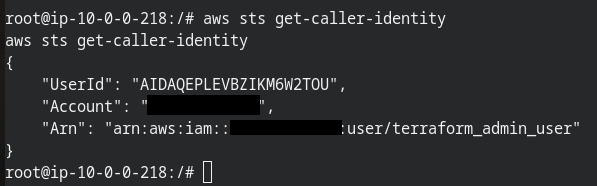
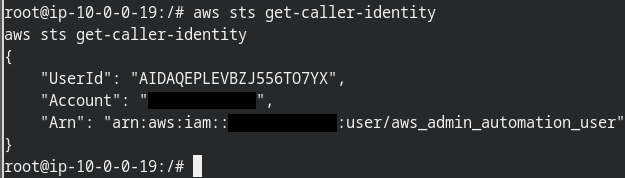
Finalized CI/CDon't CTF Page

Changed region(s): [[0.0, 0.0, 0.7538, 1.0], [0.0603, 0.3933, 1.0, 0.7584]]

diff --git a/content/aws/capture_the_flag/cicdont.md b/content/aws/capture_the_flag/cicdont.md
@@ -10,13 +10,13 @@ Link to Project: [CI/CDon't](https://github.com/Hacking-the-Cloud/htc-ctfs/tree/
     This project will deploy intentionally vulnerable software/infrastructure to your AWS account. Please ensure there is no sensitive or irrecoverable data in the account. Attempts have been made to mitigate this however they may not be fullproof; Security Group rules only allow access to the vulnerable EC2 instance from your public IP address, and a randomly generated password is required to access it.
 
 !!! Warning
-    If you intend to play the CTF it is a good idea to read through this page carefully to ensure you have all the details (minus the walkthrough). This writeup will familiarize the player with how the CTF works, what the objective is, and what the storyline is.
+    If you intend to play the CTF it is a good idea to read through this page carefully to ensure you have all the details (minus the walkthrough). This page will familiarize the player with how the CTF works, what the objective is, and what the storyline is.
 
 ## Background
 
 This is an AWS/GitLab CI/CD themed CTF that you can run in your own AWS account. All that is required is an AWS account and Terraform [installed](https://learn.hashicorp.com/tutorials/terraform/install-cli) locally on your machine.
 
-Costs should be minimal, running this infrastructure in my own account for two hours didn't accrue a cent in the Billing Dashboard, however extended time frames may cause costs to add up.
+Costs should be minimal; running this infrastructure in my own account for three hours didn't accrue a cent in the Billing Dashboard, however extended time frames may cause costs to add up.
 
 In terms of difficulty, it would be rated low. The goal is more about having fun and working through some simple CI/CD/AWS challenges that even non-security folks would enjoy.
 
@@ -42,7 +42,7 @@ You will be prompted with two questions. The first is a consent related to the c
     It will take approximately 10 minutes for all the infrastructure to be deployed and ready. This 10 minute timer begins AFTER the Terraform apply has completed. This time is used to install all the software, create the NPCs, etc.
 
 !!! Warning
-    To be able to access the vulnerable instance, Terraform will attempt to determine your public IP address and create a security group that only that IP address can access. If you cannot access the target_ip (explained below) after 10 minutes, check the AWS console for a security group named `allow_http` and ensure that it's configuration would allow you to reach it.
+    To be able to access the vulnerable instance, Terraform will attempt to determine your public IP address and create a security group that only that IP address can access. If you cannot access the target_ip (explained below) after 10 minutes, check the AWS console for a security group named `allow_http` and ensure that its configuration would allow you to reach it.
 
 To destroy the CTF environment run the Terraform destroy command.
 
@@ -73,28 +73,28 @@ ssh <player username>@<attackbox IP>
 !!! Note
     When sshing with a player username, note that the username is case-sensitive.
 
-It will take approximately 10 minutes for all the infrastructure to finish deploying. If you'd like to test if it's finished, you can navigate to `http://<target IP>/`. If it doesn't respond, or only shows a generic GitLab log in page, then the CTF is not ready yet. If you see a message about SoftHouseIO, then everything is setup and ready.
-
-Please Note: To be able to access the vulnerable instance, Terraform will attempt to determine your public ip address and create a security group that only that ip address can access. If you cannot access the target_ip (explained below) after 10 minutes, check the AWS console for a security group named `allow_http` and ensure that it's configuration would allow you to reach it.
+It will take approximately 10 minutes for all the infrastructure to finish deploying. If you'd like to test if it's finished, you can navigate to `http://<target IP>/`. If it doesn't respond, or only shows a generic GitLab login page, then the CTF is not ready yet. If you see a message about SoftHouseIO, then everything is setup and ready.
 
 !!! Note
-    To be able to access the vulnerable instance, Terraform will attempt to determine your public IP address and create security group rules that only that IP address can access. If you cannot access the target instance after 10 minutes (likely shorter), check the AWS console for a security group named `allow_http` and ensure that ti's configuration would allow you to reach it.
+    To be able to access the vulnerable instance, Terraform will attempt to determine your public IP address and create security group rules that only that IP address can access. If you cannot access the target instance after 10 minutes (likely shorter), check the AWS console for a security group named `allow_http` and ensure that it's configuration would allow you to reach it.
 
     These security group rules apply to both the target (GitLab) and the attackbox. Additionally, the rules are configured to allow the attackbox to receive incoming traffic from the target (to catch shells).
 
-If you see any references to gamemaster, please ignore it. Those scripts are used to simulate the NPCs and have them complete their lore tasks. It is unrelated to the challenge.
+If you see any references to `gamemaster`, please ignore it. Those scripts are used to simulate the NPCs and have them complete their lore tasks. It is unrelated to the challenge.
 
 ## The Story
 
-You are <player username>, a developer at SoftHouseIO, an independent software development consultancy firm. Recently, things haven't been going your way, and you're looking for a payday.
+You are <player username\>, a developer at SoftHouseIO, an independent software development consultancy firm. While you like the company, you're thinking about making a little money on the side, perhaps through not entirely legal means. Can you say ransomware?
 
-What if you leverage your access as a developer to gain access to company resources? Can you say cryptominer?
-
-The best place to get started is probably the company GitLab server at http://<target IP>. Your username and password should you get you in.
+After planning your attack you figure the best place to get started is the company GitLab server at http://<target IP\>. Your username and password should you get you in. You'll want to gain access to administrative credentials for the AWS account the company uses.
 
 ## The Objective
 
-Gain access to the `terraform_admin_user` through whatever means necessary (Note that this role has no permissions. It is simply the goal).
+Gain access to the `aws_admin_automation_user` through whatever means necessary (Note that this role has no permissions. It is simply the goal).
+
+## Feedback
+
+Want to provide feedback on the challenge? Open a new discussion on [GitHub](https://github.com/Hacking-the-Cloud/hackingthe.cloud/discussions/categories/ctf-discussion)
 
 ## Walkthrough
 
@@ -187,7 +187,7 @@ The following is a step by step walkthrough of the CTF. You can refer to this if
 
     Our next step will be to get a shell in this environment. This is where our attackbox can come in.
 
-    **Please note**: You are welcome to use your C2 platform of choice. For this walkthrough I will use netcat for simplicity.
+    **Please note**: You are welcome to use your C2 platform of choice (If you'd like a recommendation, I'm a fan of [Mythic](https://github.com/its-a-feature/Mythic)). For this walkthrough I will use netcat for simplicity.
 
     SSH into your attack box and install a tool called `ncat`.
 
@@ -298,15 +298,15 @@ The following is a step by step walkthrough of the CTF. You can refer to this if
 
     On first glance it appears pretty standard; It installs GitLab, installs the GitLab runners, activates them, etc.
 
-    There is a slight problem though, on the line where they installed GitLab, they accidentally leaked a credential. An important one at that. That is the credential to the root user.
+    There is a slight problem though, on the line where they installed GitLab, they accidentally leaked a credential. An important one at that. That is the credential to the root user of GitLab.
 
-    This is bad news for SoftHouseIO and great news for us. Let's use this to log into the GitLab web UI as an administrator (username: root, password: <what's in the useradata>)
+    This is bad news for SoftHouseIO and great news for us. Let's use this to log into the GitLab web UI as an administrator (username: root, password: <what's in the useradata\>)
 
     After exploring around for a little while, you may stumble into the the `infra-deployer` project. That sounds important.
 
     ![The infra-deployer Project](/images/aws/capture_the_flag/cicdont/deployer.png)
 
-    "IAM Credentials are being stored in environment variables to be used with the GitLab runners". That sounds.....very interesting. The good news is that as an administrator, we can see those variables. Navigate to the `Settings` tab on the left and then click `CI/CD`. Next, click `Expand` on the `Variables` section.
+    "Admin IAM Credentials are being stored in environment variables to be used with the GitLab runners". That sounds.....very interesting. The good news is that as an administrator, we can see those variables. Navigate to the `Settings` tab on the left and then click `CI/CD`. Next, click `Expand` on the `Variables` section.
 
     ![Showing the Environment Variables](/images/aws/capture_the_flag/cicdont/variables.png)
 
